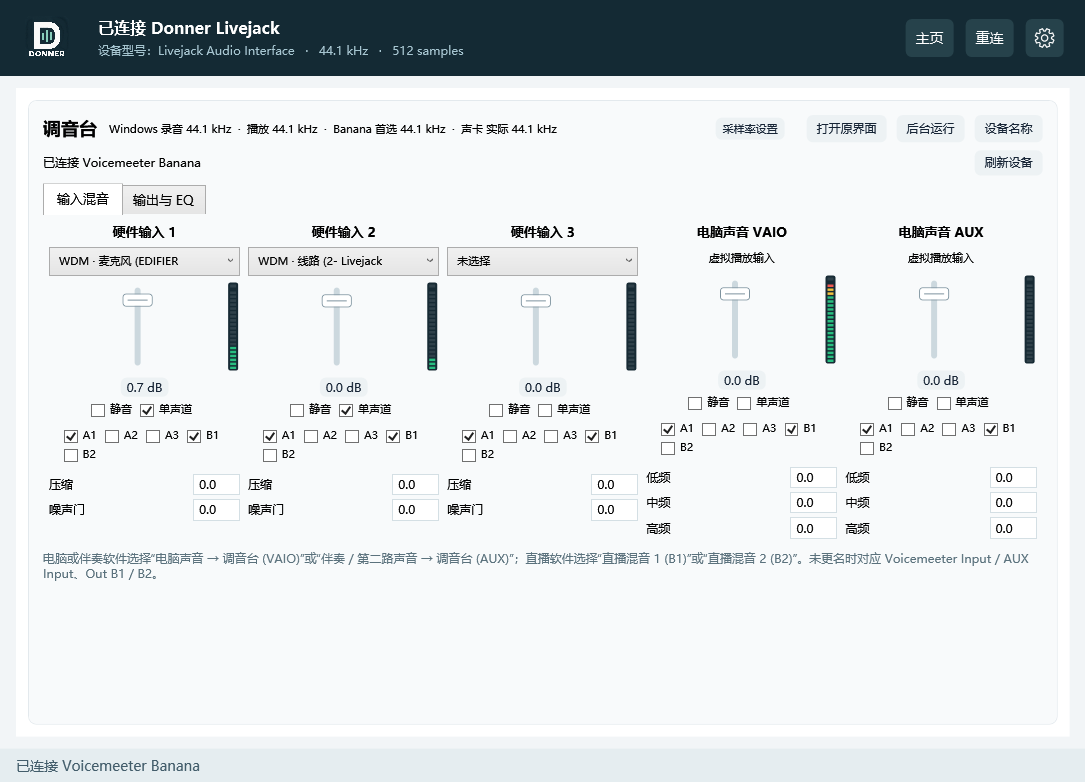
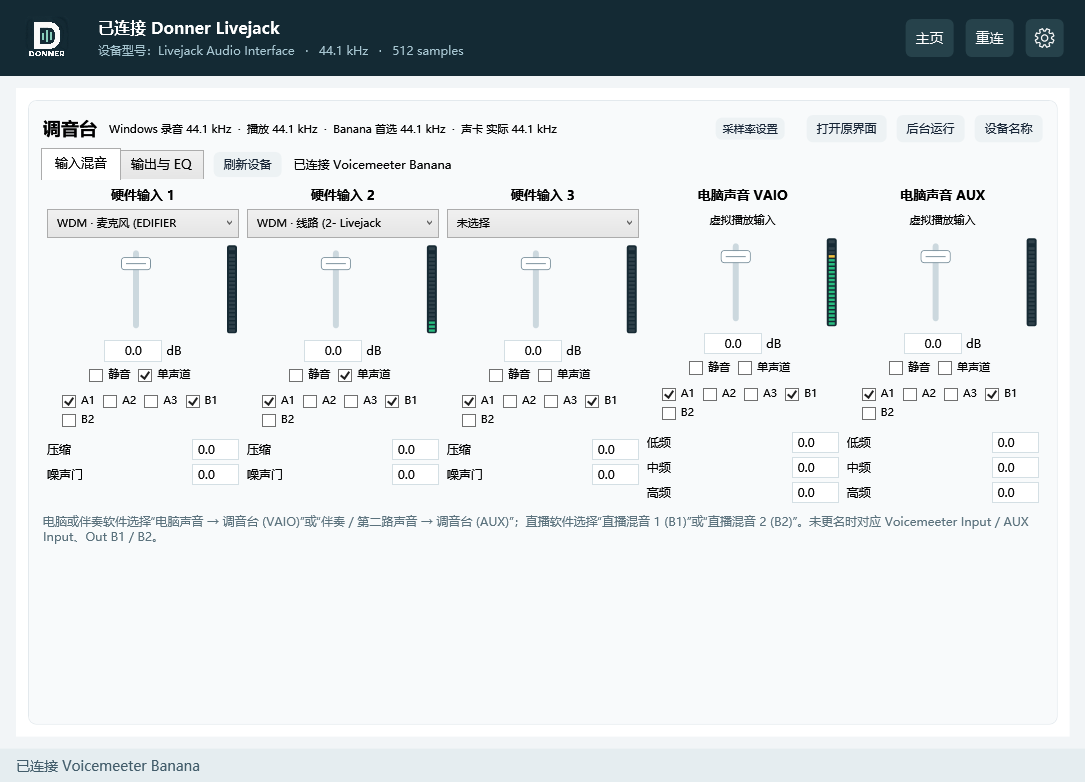
Add editable mixer gain and compact header in v1.30

diff --git a/src/Donner.Panel/App.xaml b/src/Donner.Panel/App.xaml
@@ -1,5 +1,15 @@
-<Application x:Class="Donner.Panel.App" xmlns="http://schemas.microsoft.com/winfx/2006/xaml/presentation" xmlns:x="http://schemas.microsoft.com/winfx/2006/xaml">
+<Application x:Class="Donner.Panel.App" xmlns="http://schemas.microsoft.com/winfx/2006/xaml/presentation" xmlns:x="http://schemas.microsoft.com/winfx/2006/xaml">
  <Application.Resources>
+  <ControlTemplate x:Key="MixerTabsTemplate" TargetType="TabControl">
+   <Grid KeyboardNavigation.TabNavigation="Local">
+    <Grid.RowDefinitions><RowDefinition Height="Auto"/><RowDefinition Height="*"/></Grid.RowDefinitions>
+    <StackPanel Orientation="Horizontal">
+     <TabPanel x:Name="HeaderPanel" IsItemsHost="True" KeyboardNavigation.TabIndex="1"/>
+     <ContentPresenter Content="{TemplateBinding Tag}" VerticalAlignment="Center"/>
+    </StackPanel>
+    <ContentPresenter x:Name="PART_SelectedContentHost" Grid.Row="1" ContentSource="SelectedContent"/>
+   </Grid>
+  </ControlTemplate>
   <Style x:Key="ChannelFader" TargetType="Slider"><Setter Property="Template"><Setter.Value><ControlTemplate TargetType="Slider"><Grid>
    <Border Width="6" Background="#CCD8DE" CornerRadius="3" Margin="0,6" HorizontalAlignment="Center"/>
    <Track x:Name="PART_Track" Orientation="{TemplateBinding Orientation}" Minimum="{TemplateBinding Minimum}" Maximum="{TemplateBinding Maximum}" Value="{TemplateBinding Value}" IsDirectionReversed="{TemplateBinding IsDirectionReversed}">

diff --git a/src/Donner.Panel/MixerPanel.cs b/src/Donner.Panel/MixerPanel.cs
@@ -1,4 +1,4 @@
-using System.Globalization;
+using System.Globalization;
 using System.Windows;
 using System.Windows.Controls;
 using System.Windows.Media;
@@ -49,12 +49,13 @@ internal sealed class MixerPanel:Border,IDisposable
         titleAndRates.Children.Add(new TextBlock{Text="调音台",FontSize=18,FontWeight=FontWeights.SemiBold,VerticalAlignment=VerticalAlignment.Center});
         if(sampleRates is MixerSampleRates rates){Grid.SetColumn(rates.HeaderView,1);titleAndRates.Children.Add(rates.HeaderView);}
         heading.Children.Add(titleAndRates);
-        var connection=new DockPanel{Margin=new Thickness(0,8,0,8)};body.Children.Add(connection);
-        var refresh=new Button{Content="刷新设备",FontSize=12,Padding=new Thickness(10,5,10,5),Margin=new Thickness(10,0,0,0)};DockPanel.SetDock(refresh,Dock.Right);connection.Children.Add(refresh);connection.Children.Add(status);
+        var connection=new StackPanel{Orientation=Orientation.Horizontal,Margin=new Thickness(10,0,0,0),VerticalAlignment=VerticalAlignment.Center};
+        var refresh=new Button{Content="刷新设备",FontSize=12,Padding=new Thickness(10,5,10,5),Margin=new Thickness(0,0,12,0)};connection.Children.Add(refresh);connection.Children.Add(status);
+        status.MaxWidth=330;status.TextTrimming=TextTrimming.CharacterEllipsis;status.SetBinding(ToolTipProperty,new System.Windows.Data.Binding("Text"){Source=status});
         refresh.Click+=(_,_)=>Attempt(()=>{if(client.Refresh())RefreshDevices();Poll(true);});
         if(sampleRates is not null){body.Children.Add(sampleRates);settings=sampleRates as IDisposable;}
         body.Children.Add(controls);
-        var tabs=new TabControl{Background=Brushes.Transparent,BorderThickness=new Thickness(0)};controls.Children.Add(tabs);
+        var tabs=new TabControl{Background=Brushes.Transparent,BorderThickness=new Thickness(0),Margin=new Thickness(0,8,0,0),Tag=connection,Template=(ControlTemplate)FindResource("MixerTabsTemplate")};controls.Children.Add(tabs);
         var inputs=new System.Windows.Controls.Primitives.UniformGrid{Rows=1};var outputs=new System.Windows.Controls.Primitives.UniformGrid{Rows=1};
         tabs.Items.Add(new TabItem{Header="输入混音",Content=inputs,FontSize=13,Padding=new Thickness(12,6,12,6)});
         var outputBody=new StackPanel();outputBody.Children.Add(outputs);
@@ -79,18 +80,38 @@ internal sealed class MixerPanel:Border,IDisposable
         var slider=new Slider{Orientation=Orientation.Vertical,IsMoveToPointEnabled=true,Minimum=-60,Maximum=12,TickFrequency=.1,IsSnapToTickEnabled=true,SmallChange=.1,LargeChange=1,Height=90,Width=36,Style=(Style)FindResource("ChannelFader")};faderRow.Children.Add(slider);
         var meter=new ChannelMeter{Width=10,Height=88,VerticalAlignment=VerticalAlignment.Center};Grid.SetColumn(meter,1);faderRow.Children.Add(meter);
         meters.Add(()=>meter.Peak=client.Level(input,index));
-        var value=new Button{Content="0.0 dB",Tag=prefix+".Gain.reset",FontSize=12,HorizontalAlignment=HorizontalAlignment.Center,Padding=new Thickness(6,2,6,2),Margin=new Thickness(0,4,0,4),ToolTip="点击数值归零（0 dB 不增不减）；双击推子也可归零。"};box.Children.Add(value);
+        var gainRow=new StackPanel{Orientation=Orientation.Horizontal,HorizontalAlignment=HorizontalAlignment.Center,Margin=new Thickness(0,4,0,4)};box.Children.Add(gainRow);
+        var value=new TextBox{Text="0.0",Tag=prefix+".Gain",Width=58,FontSize=12,TextAlignment=TextAlignment.Center,Padding=new Thickness(3,2,3,2),ToolTip="输入 -60 至 +12 dB，支持一位小数；按 Enter 或离开输入框应用。输入 0 归零。"};gainRow.Children.Add(value);
+        gainRow.Children.Add(new TextBlock{Text="dB",FontSize=12,VerticalAlignment=VerticalAlignment.Center,Margin=new Thickness(4,0,0,0)});
+        string GainText()=>slider.Value.ToString("0.0",CultureInfo.CurrentCulture);
+        bool enteringGain=false;
+        void CommitGain()
+        {
+            if(updating)return;
+            if(double.TryParse(value.Text,NumberStyles.Float,CultureInfo.CurrentCulture,out var gain)&&double.IsFinite(gain)&&gain>=-60&&gain<=12)
+            {
+                gain=Math.Round(gain,1,MidpointRounding.AwayFromZero);
+                enteringGain=true;try{slider.Value=gain;}finally{enteringGain=false;}
+                Queue(prefix+".Gain",(float)gain);value.Text=GainText();
+            }
+            else{status.Text="分贝请输入 -60 至 +12 的数字。";value.Text=GainText();}
+        }
+        value.LostKeyboardFocus+=(_,_)=>CommitGain();
+        value.KeyDown+=(_,e)=>
+        {
+            if(e.Key==System.Windows.Input.Key.Enter){CommitGain();value.MoveFocus(new System.Windows.Input.TraversalRequest(System.Windows.Input.FocusNavigationDirection.Next));e.Handled=true;}
+            else if(e.Key==System.Windows.Input.Key.Escape){value.Text=GainText();value.MoveFocus(new System.Windows.Input.TraversalRequest(System.Windows.Input.FocusNavigationDirection.Next));e.Handled=true;}
+        };
         slider.ToolTip="-60 至 +12 dB；靠近 0 dB 自动吸附。双击归零；方向键按 0.1 dB 微调。";
         void ResetGain(){slider.Focus();slider.Value=0;if(!updating)Queue(prefix+".Gain",0);}
-        value.Click+=(_,_)=>ResetGain();
         slider.PreviewMouseDoubleClick+=(_,e)=>{if(e.ChangedButton==System.Windows.Input.MouseButton.Left){ResetGain();e.Handled=true;}};
         slider.ValueChanged+=(_,_)=>
         {
-            if(!updating&&(slider.IsMouseCaptureWithin||slider.IsMouseOver&&System.Windows.Input.Mouse.LeftButton==System.Windows.Input.MouseButtonState.Pressed))
+            if(!updating&&!enteringGain&&(slider.IsMouseCaptureWithin||slider.IsMouseOver&&System.Windows.Input.Mouse.LeftButton==System.Windows.Input.MouseButtonState.Pressed))
             {var snapped=MixerFaderValue.Pointer(slider.Value);if(snapped!=slider.Value)slider.Value=snapped;}
-            value.Content=$"{slider.Value:0.0} dB";if(!updating)Queue(prefix+".Gain",(float)slider.Value);
+            if(!value.IsKeyboardFocusWithin)value.Text=GainText();if(!updating)Queue(prefix+".Gain",(float)slider.Value);
         };
-        readers.Add(()=>{if(!slider.IsMouseCaptureWithin&&!pending.ContainsKey(prefix+".Gain"))slider.Value=ReadValue(prefix+".Gain");});
+        readers.Add(()=>{if(!slider.IsMouseCaptureWithin&&!value.IsKeyboardFocusWithin&&!pending.ContainsKey(prefix+".Gain")){slider.Value=ReadValue(prefix+".Gain");value.Text=GainText();}});
         var switches=new WrapPanel{HorizontalAlignment=HorizontalAlignment.Center};box.Children.Add(switches);
         AddCheck(switches,"静音",prefix+".Mute");AddCheck(switches,"单声道",prefix+".Mono");
         if(input)

diff --git a/src/Donner.Panel/MixerSmoke.cs b/src/Donner.Panel/MixerSmoke.cs
@@ -1,4 +1,4 @@
-using System.Text.Json;
+using System.Text.Json;
 using System.Windows;
 using System.Windows.Controls;
 using System.Windows.Media;
@@ -104,8 +104,12 @@ public partial class MainWindow
         if(fake.Values.GetValueOrDefault("Strip[0].Mute")!=1)throw new Exception("调音台静音未写入。");
         var count=fake.Writes.Count;fake.Values["Strip[1].Gain"]=-18;panel.Poll(true);
         if(!ReferenceEquals(fader,Visuals<Slider>(panel).First())||fake.Writes.Count!=count)throw new Exception("调音台刷新重建控件或触发回写。");
-        var reset=Visuals<Button>(panel).First(x=>x.Tag?.ToString()=="Strip[0].Gain.reset");
-        fader.Value=-7;panel.Poll(true);reset.RaiseEvent(new RoutedEventArgs(Button.ClickEvent));panel.Poll(true);
+        var reset=Visuals<TextBox>(panel).First(x=>x.Tag?.ToString()=="Strip[0].Gain");
+        void SubmitGain(TextBox field,string text){field.Text=text;field.RaiseEvent(new System.Windows.Input.KeyboardFocusChangedEventArgs(System.Windows.Input.Keyboard.PrimaryDevice,Environment.TickCount,field,null){RoutedEvent=System.Windows.Input.Keyboard.LostKeyboardFocusEvent});panel.Poll(true);}
+        SubmitGain(reset,"-6.3");if(Math.Abs(fake.Values.GetValueOrDefault("Strip[0].Gain")+6.3f)>.001||Math.Abs(fader.Value+6.3)>.001)throw new Exception("直接输入未同步推子与增益。");
+        var writesBeforeInvalid=fake.Writes.Count;foreach(var bad in new[]{"13","-61","NaN","abc",""})SubmitGain(reset,bad);
+        if(fake.Writes.Count!=writesBeforeInvalid)throw new Exception("无效分贝输入写入了设备。");
+        fader.Value=-7;panel.Poll(true);SubmitGain(reset,"0");
         if(fader.Value!=0||fake.Values.GetValueOrDefault("Strip[0].Gain")!=0)throw new Exception("点击增益数值未精确归零。");
         fader.Value=-5;panel.Poll(true);
         fader.RaiseEvent(new System.Windows.Input.MouseButtonEventArgs(System.Windows.Input.Mouse.PrimaryDevice,Environment.TickCount,System.Windows.Input.MouseButton.Left){RoutedEvent=Control.PreviewMouseDoubleClickEvent});panel.Poll(true);
@@ -114,8 +118,8 @@ public partial class MainWindow
         SaveImage("mixer-inputs.png");
         var tabs=Visuals<TabControl>(panel).Single();tabs.SelectedIndex=1;
         await Dispatcher.InvokeAsync(()=>{},DispatcherPriority.ApplicationIdle);panel.Poll(true);
-        var outputReset=Visuals<Button>(panel).First(x=>x.Tag?.ToString()=="Bus[0].Gain.reset");
-        var outputFader=Visuals<Slider>(panel).First();outputFader.Value=6;panel.Poll(true);outputReset.RaiseEvent(new RoutedEventArgs(Button.ClickEvent));panel.Poll(true);
+        var outputReset=Visuals<TextBox>(panel).First(x=>x.Tag?.ToString()=="Bus[0].Gain");
+        var outputFader=Visuals<Slider>(panel).First();outputFader.Value=6;panel.Poll(true);SubmitGain(outputReset,"0");
         if(outputFader.Value!=0||fake.Values.GetValueOrDefault("Bus[0].Gain")!=0||Math.Abs(fake.Values.GetValueOrDefault("Strip[0].Gain")-.1f)>.001)throw new Exception("输出归零作用到了错误的通道。");
         fake.Values["Bus[0].Mono"]=2;panel.Poll(true);
         if(Visuals<CheckBox>(panel).First(x=>x.Content?.ToString()=="单声道").IsChecked==true)throw new Exception("立体声反转被显示成了单声道。");

diff --git a/src/Donner.Panel/MainWindow.xaml.cs b/src/Donner.Panel/MainWindow.xaml.cs
@@ -1,4 +1,4 @@
-using System.Diagnostics;
+using System.Diagnostics;
 using System.ComponentModel;
 using System.Text;
 using System.Text.Json;
@@ -53,7 +53,7 @@ public partial class MainWindow : Window
         StreamModeCombo.ItemsSource=new[]{new DriverOption(1,"按需开启"),new DriverOption(2,"持续开启")};
         OutputFormatCombo.SelectionChanged+=(_,_)=>{if(!rendering&&OutputFormatCombo.SelectedItem is DriverOption option)selectedFormat=option.Value;};
         StreamModeCombo.SelectionChanged+=(_,_)=>{if(!rendering&&StreamModeCombo.SelectedItem is DriverOption option)selectedStreamMode=option.Value;};
-        Title="Donner 中文控制面板 · v1.29 · topsai (范斯特洛夫斯基)";
+        Title="Donner 中文控制面板 · v1.30 · topsai (范斯特洛夫斯基)";
         AboutVersion.Text="版本 "+typeof(MainWindow).Assembly.GetName().Version?.ToString(3);
         var smoke=Array.IndexOf(args,"--smoke");
         smokeDirectory=smoke>=0 && smoke+1<args.Length?Path.GetFullPath(args[smoke+1]):null;
@@ -248,7 +248,7 @@ public partial class MainWindow : Window
             try
             {
                 Directory.CreateDirectory(reconnectCheckDirectory);
-                File.WriteAllText(Path.Combine(reconnectCheckDirectory,"state.json"),JsonSerializer.Serialize(new {Version="1.29",ProcessId=Environment.ProcessId,Updated=DateTimeOffset.Now,d.Connected,d.Demo,d.Status,d.SampleRate,d.BufferSize,DeviceChanges=deviceChanges,NotificationRegistered=notifications is not null},new JsonSerializerOptions {WriteIndented=true}));
+                File.WriteAllText(Path.Combine(reconnectCheckDirectory,"state.json"),JsonSerializer.Serialize(new {Version="1.30",ProcessId=Environment.ProcessId,Updated=DateTimeOffset.Now,d.Connected,d.Demo,d.Status,d.SampleRate,d.BufferSize,DeviceChanges=deviceChanges,NotificationRegistered=notifications is not null},new JsonSerializerOptions {WriteIndented=true}));
             }
             catch(IOException){}
         }
